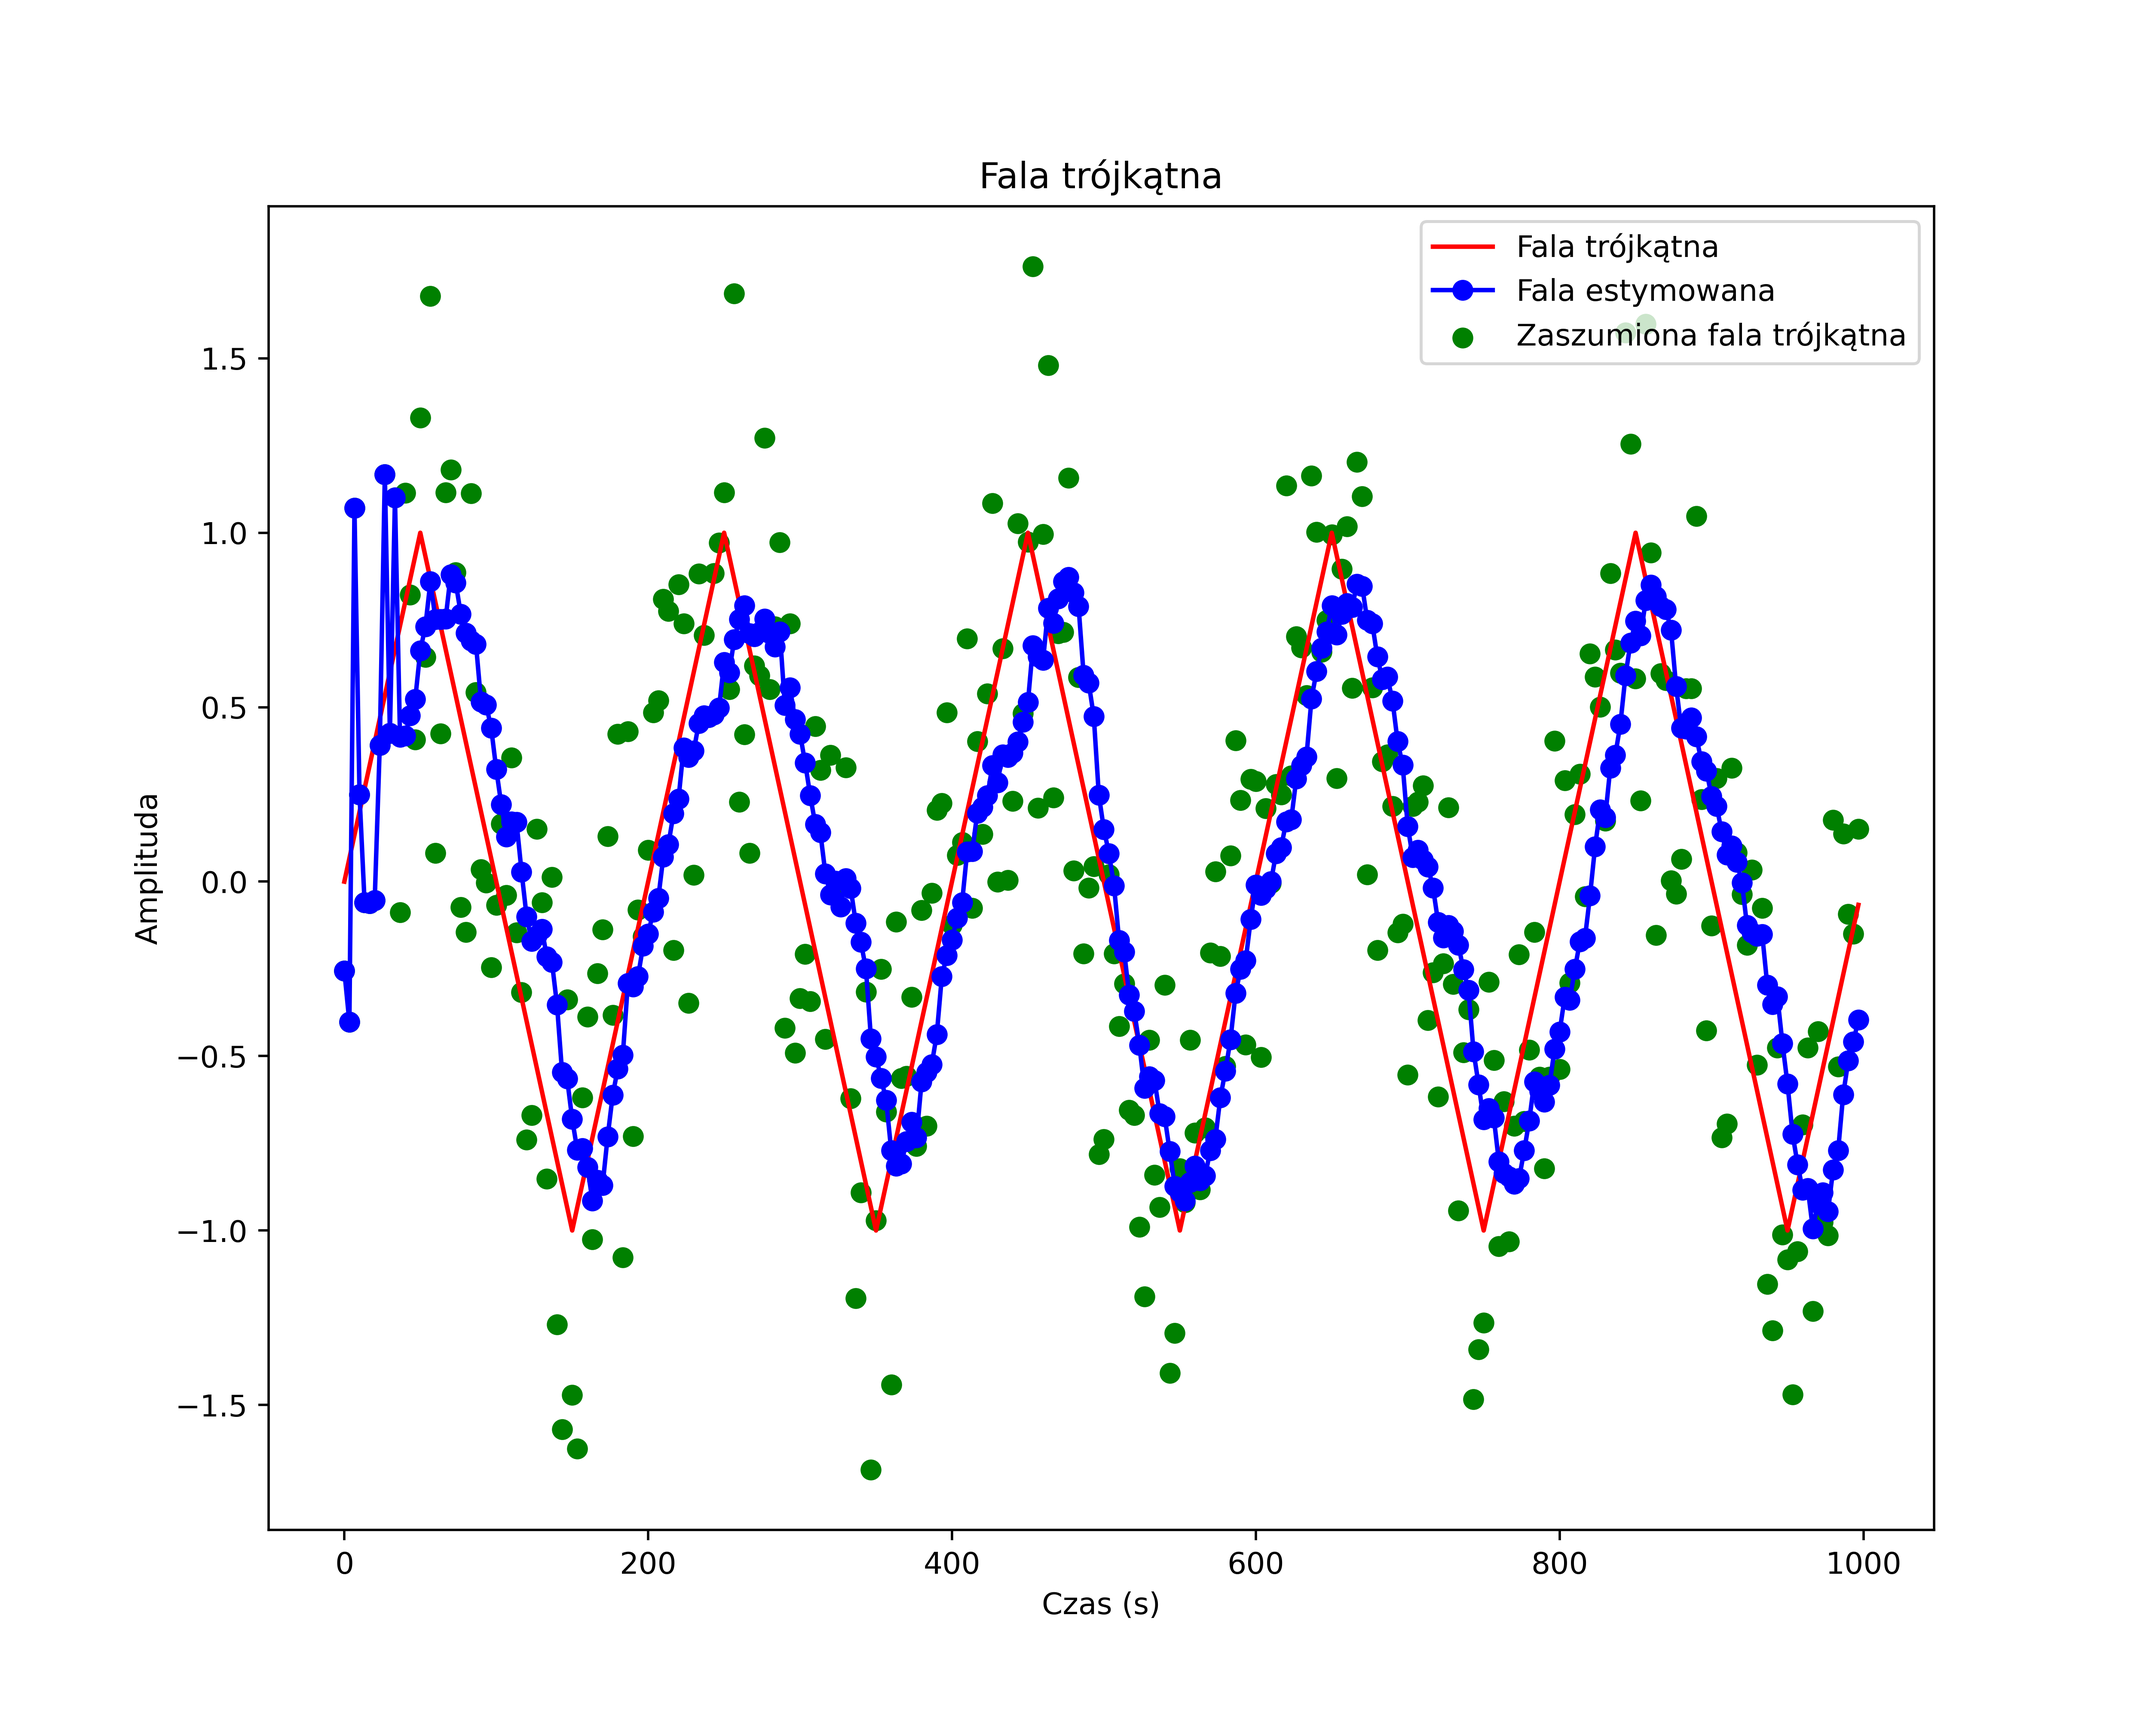
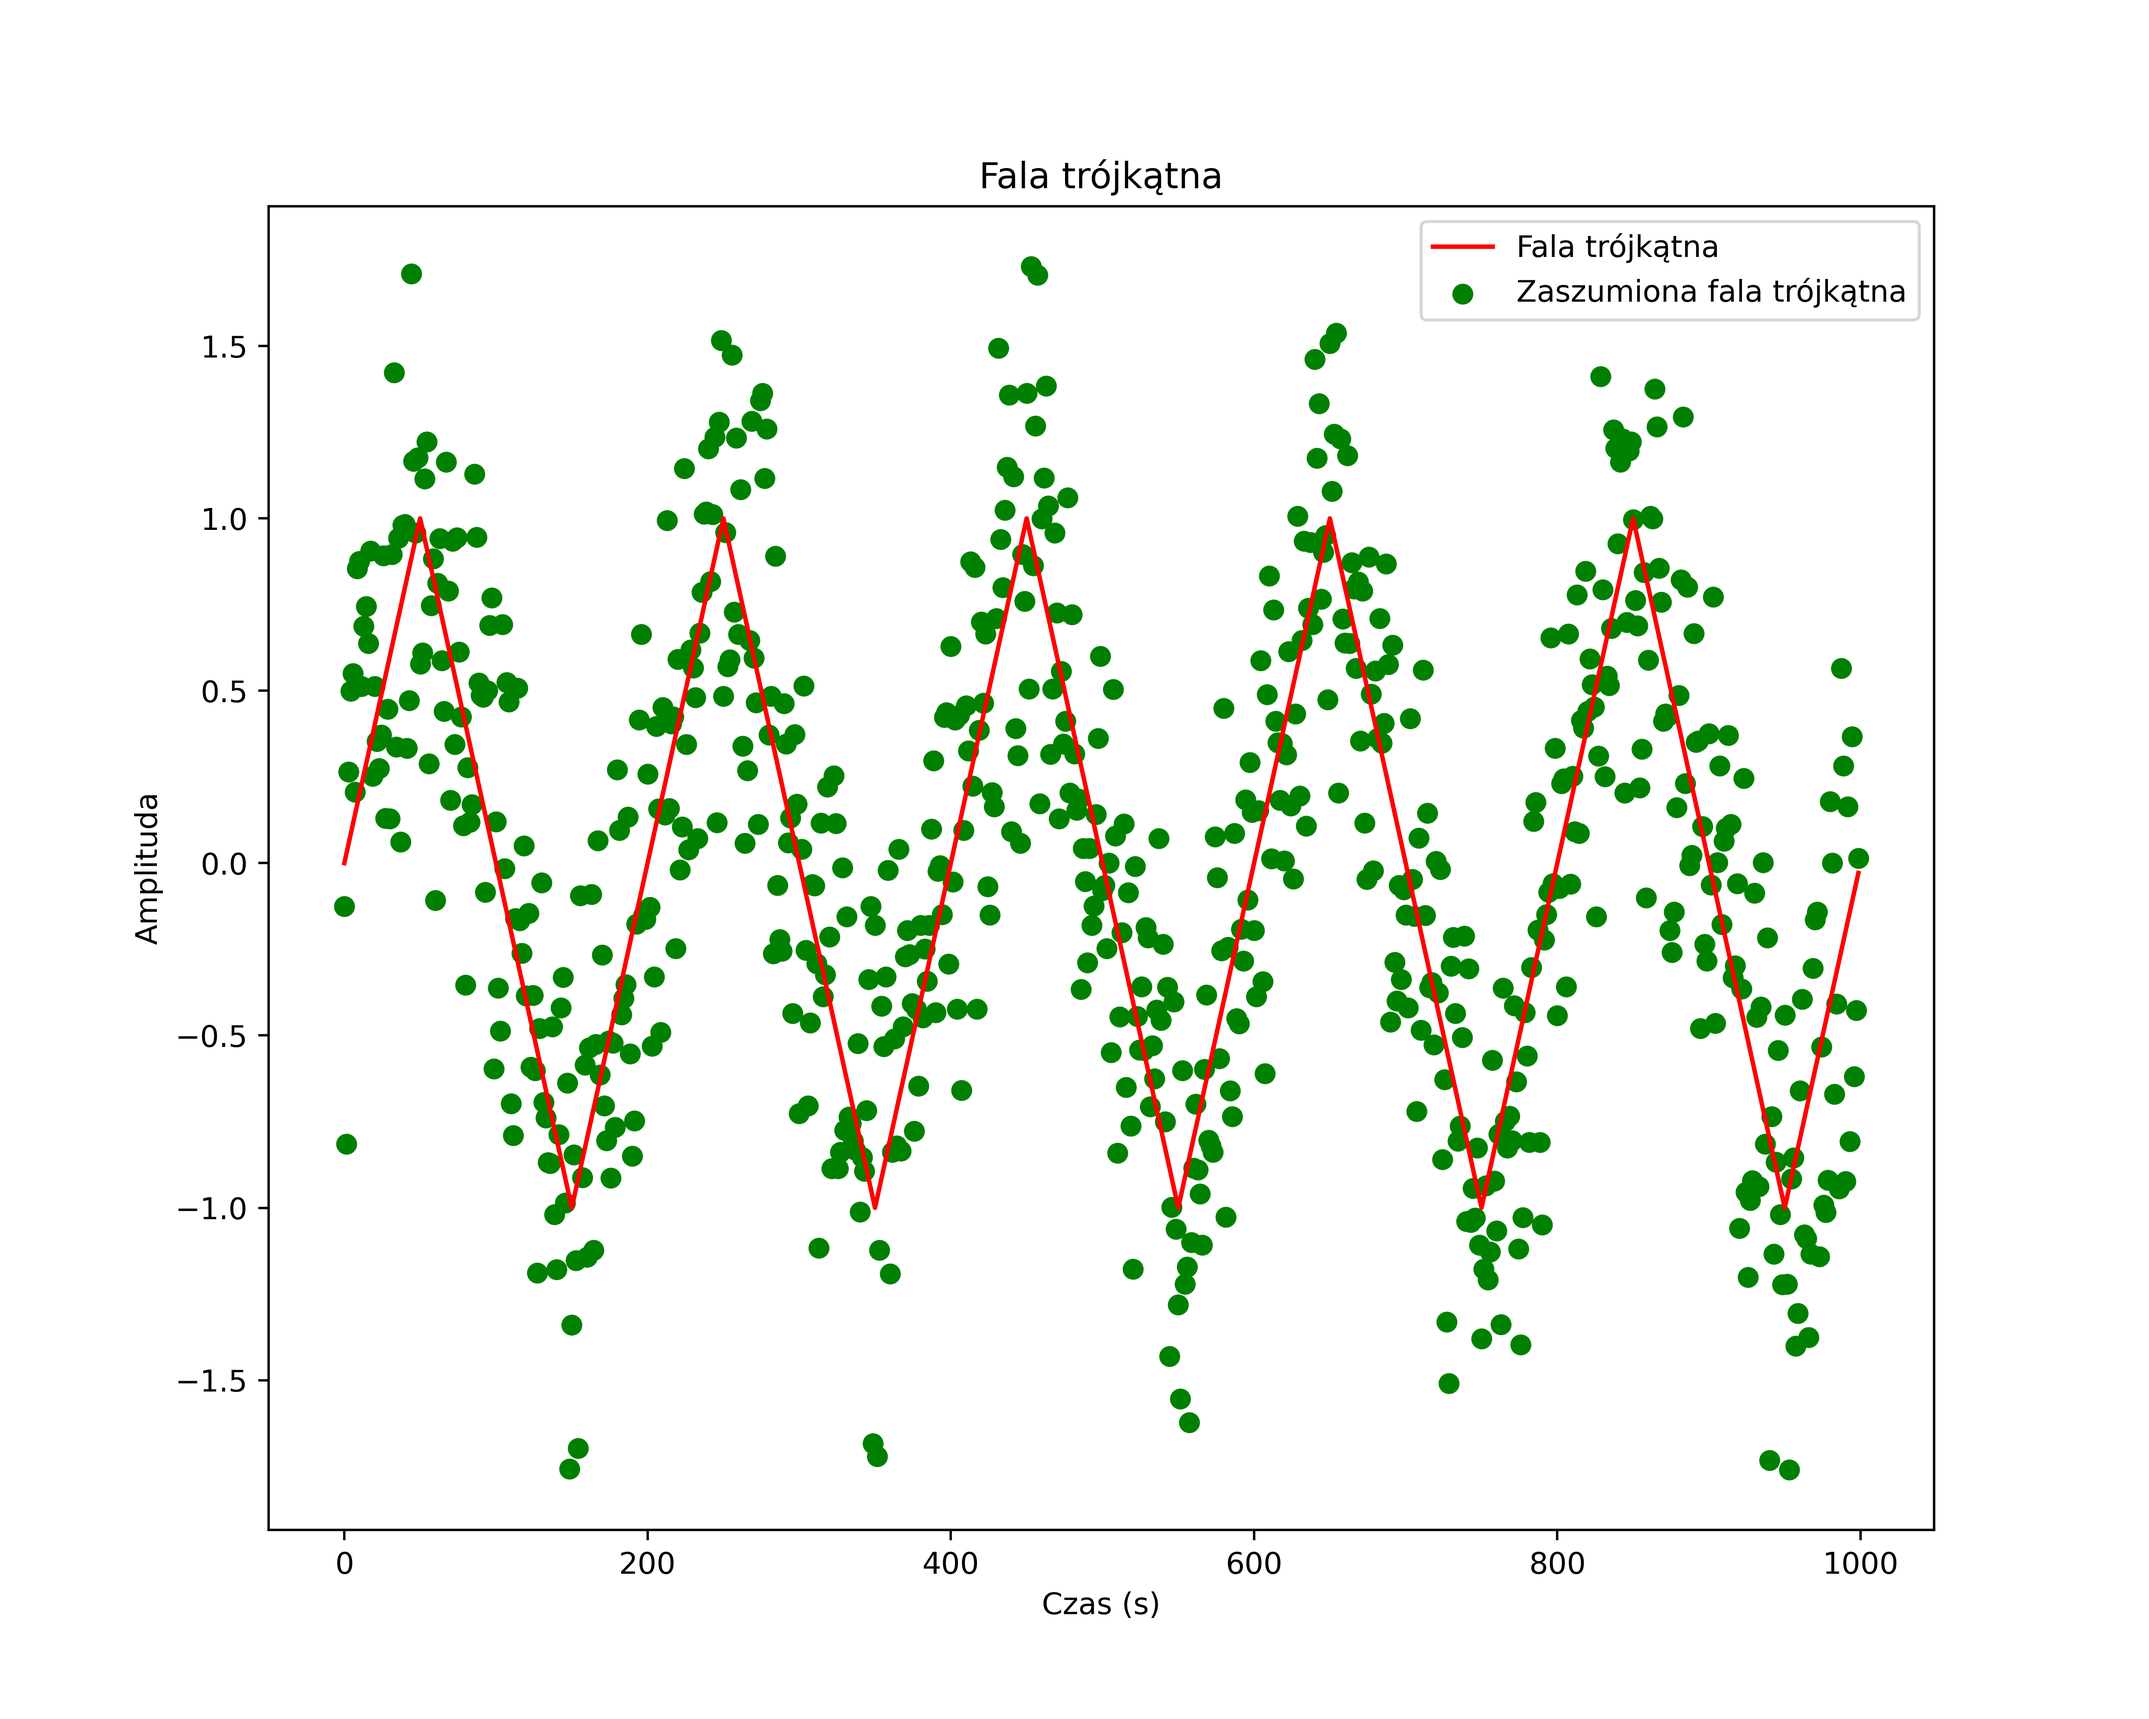
trialngular signal random for every H

diff --git a/adaptacyjne/projekt1/wave.py b/adaptacyjne/projekt1/wave.py
@@ -14,12 +14,11 @@ def calculate_all(N, max, triangular_signal):
     H_opt = np.zeros(len(c))
     for current_c in range(len(c)):
         # max value that MSE can be - for finding H opt
-        min_MSE = 5
-        noise = [ c[current_c] *(random.random() + random.random() - 1) for _ in range(N)]
-        triangular_signal_with_noise = [triangular_signal[i] + noise[i]  for i in range(N)]
+        min_MSE = 5    
         var[current_c] = 2*(c[current_c]**2)/3 
-
         for current_h in range(len(H)):
+            noise = [ c[current_c] *(random.random() + random.random() - 1) for _ in range(N)]
+            triangular_signal_with_noise = [triangular_signal[i] + noise[i]  for i in range(N)]
             local_sum = np.zeros(N)
             for i in range(N):
                 for h in range(H[current_h]):
@@ -62,7 +61,7 @@ def main():
     period = 1 / frequency
     amplitude = 1.0  # Amplitude of the signal
     duration = 1000.0  # Duration of the signal (seconds)
-    sampling_frequency = 0.3  # Sampling frequency (samples per second)
+    sampling_frequency = 0.7  # Sampling frequency (samples per second)
     # time vector
     t = np.linspace(0, duration, int(sampling_frequency * duration), endpoint=False) # <class 'numpy.ndarray'>
     N = len(t)
@@ -79,13 +78,22 @@ def main():
     ax = fig.add_subplot(111) # TE NAZWY SĄ DO ZMIANY !
     # TRZEBABY JESZCZE POKAZAĆ TEN ESTYMOWANY SYGNAŁ(?)
     ax.plot(t, triangular_signal, c='r', label="Fala trójkątna") 
-    ax.plot(t, est, c='b', marker='o', label="Fala estymowana")
+    # ax.plot(t, est, c='b', marker='o', label="Fala estymowana")
     ax.scatter(t, t_w_n, c='g', marker='o', label="Zaszumiona fala trójkątna")
     ax.set_title(f'Fala trójkątna')
     ax.legend(loc='upper right')
     ax.set_xlabel('Czas (s)')
     ax.set_ylabel('Amplituda')
     # ax.set_ylim(-amplitude - 0.5, amplitude + 0.5)
+    fig_est = plt.figure(figsize=(10,8))
+    ax_est = fig_est.add_subplot(111)
+    ax_est.plot(t, triangular_signal, c='r', label="Fala trójkątna") 
+    ax_est.plot(t, est, c='b', marker='o', label="Fala estymowana")
+    # ax_est.scatter(t, t_w_n, c='g', marker='o', label="Zaszumiona fala trójkątna")
+    ax_est.set_title(f'Fala trójkątna')
+    ax_est.legend(loc='upper right')
+    ax_est.set_xlabel('Czas (s)')
+    ax_est.set_ylabel('Amplituda')
 
     # MSE(H) and MSE(var) plots
     fig_MSE, (ax_H, ax_var) = plt.subplots(1, 2, figsize=(12, 6))
@@ -105,7 +113,7 @@ def main():
     # Var(H opt) - CZY TO NIE POWINNO BYĆ NA ODWRÓT Hopt(var) ?? 
     fig_opt = plt.figure(figsize=(8, 6))
     ax_opt = fig_opt.add_subplot(111)
-    ax_opt.scatter(var, H_opt,  c='r') # ZAMIENIŁAM TUTAJ KOLEJNOŚĆ!!
+    ax_opt.scatter(var, H_opt,  c='r', s=10) # ZAMIENIŁAM TUTAJ KOLEJNOŚĆ!!
     ax_opt.set_title('H optymalne(wariancja)')
     ax_opt.set_ylabel('Optymalny horyzont pamięci')
     ax_opt.set_xlabel('Wariancja')
@@ -123,7 +131,7 @@ def main():
     colors = cm.rainbow(Z)
     rcount, ccount, _ = colors.shape
     surf = ax0.plot_surface(X, Y, Z, rcount=rcount, ccount=ccount, facecolors=colors, shade=False)
-    surf.set_facecolor((0,0,0,0))
+    # surf.set_facecolor((0,0,0,0))
     # cbar = fig.colorbar(surf, shrink=0.5, aspect=5)
 
     ax0.set_xlabel('Horyzont pamięci')
@@ -134,6 +142,7 @@ def main():
 
     plt.tight_layout()
     fig.savefig(os.path.join(os.path.dirname(__file__), "images", "Wykres_szumu.png"), dpi=500)
+    fig_est.savefig(os.path.join(os.path.dirname(__file__), "images", "Wykres_estymowany.png"), dpi=500)
     fig_3d.savefig(os.path.join(os.path.dirname(__file__), "images", "Wykres_3d.png"), dpi=500)
     fig_opt.savefig(os.path.join(os.path.dirname(__file__), "images", "Wykres_opt.png"), dpi=500)
     fig_MSE.savefig(os.path.join(os.path.dirname(__file__), "images", "Wykres_MSE.png"), dpi=500)
